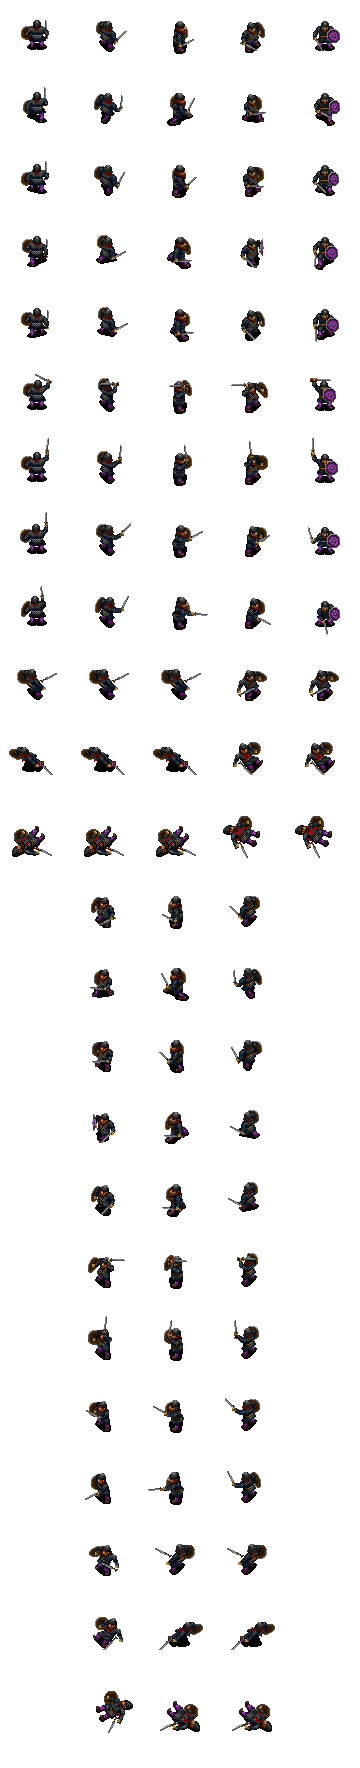
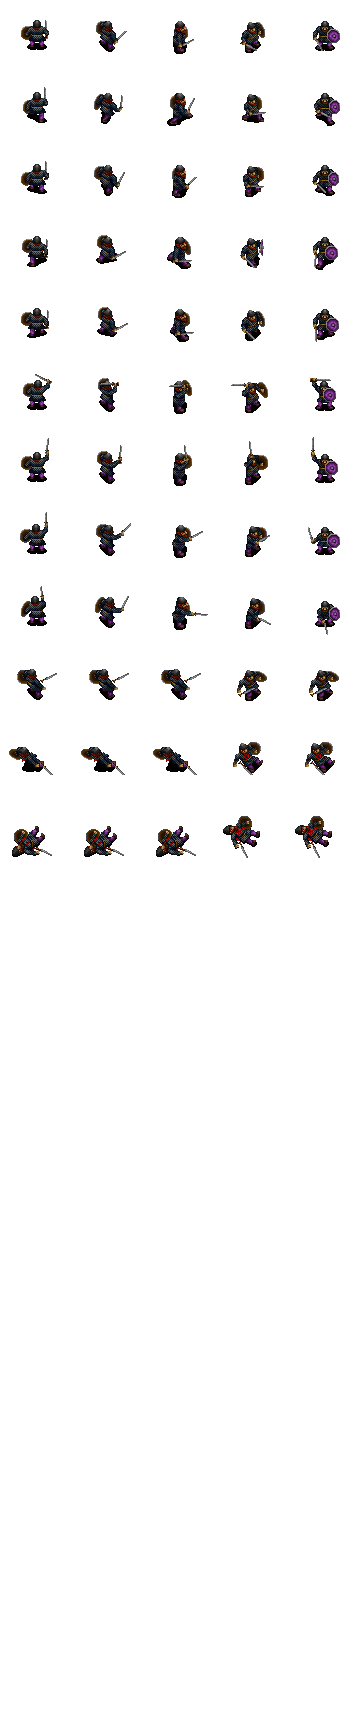
Revert "attacking"
This reverts commit de42b86c028c78cfaebd05b61cb96dce680a8fff.

diff --git a/player.js b/player.js
@@ -52,92 +52,82 @@ var ANIM_DIE_DOWN_RIGHT = 31;
 
 var Player = function() {
 	this.image = document.createElement("img");
-	this.sprite = new Sprite("saxon_swordsman.png");
+	this.sprite = new Sprite("saxon_swordsma.png");
 //UP
 	this.sprite.buildAnimation(5, 24, 73, 73, 0.05,
 			[0]); this.sprite.setAnimationOffset(0,-52,-33);
 	this.sprite.buildAnimation(5, 24, 73, 73, 0.05,
-			[5, 5, 10, 10, 15, 15, 20 ,20]); this.sprite.setAnimationOffset(1,-52,-33);
+			[5, 5, 10, 10, 15, 15, 20 ,20]); this.sprite.setAnimationOffset(0,-52,-33);
 	this.sprite.buildAnimation(5, 24, 73, 73, 0.05,
-			[25, 25 , 30 , 30, 35, 35, 40, 40]); this.sprite.setAnimationOffset(2,-52,-33);		
+			[25, 30, 35, 40]); this.sprite.setAnimationOffset(0,-52,-33);		
 	this.sprite.buildAnimation(5, 24, 73, 73, 0.05,
-			[45, 50, 55]); this.sprite.setAnimationOffset(3,-52,-33);	
+			[45, 50, 55]); this.sprite.setAnimationOffset(0,-52,-33);	
 //UP LEFT		
 	this.sprite.buildAnimation(5, 24, 73, 73, 0.05,
-			[63]); this.sprite.setAnimationOffset(4,-52,-33);
+			[63]); this.sprite.setAnimationOffset(0,-52,-33);
 	this.sprite.buildAnimation(5, 24, 73, 73, 0.05,
-			[68, 73, 78, 83]); this.sprite.setAnimationOffset(5,-52,-33);			
+			[68, 73, 78, 83]); this.sprite.setAnimationOffset(0,-52,-33);			
 	this.sprite.buildAnimation(5, 24, 73, 73, 0.05,
-			[88, 93, 98, 103]); this.sprite.setAnimationOffset(6,-52,-33);			
+			[88, 93, 98, 103]); this.sprite.setAnimationOffset(0,-52,-33);			
 	this.sprite.buildAnimation(5, 24, 73, 73, 0.05,
-			[108, 113, 118]); this.sprite.setAnimationOffset(7,-52,-33);	
+			[108, 113, 118]); this.sprite.setAnimationOffset(0,-52,-33);	
 //UP RIGHT	
 	this.sprite.buildAnimation(5, 24, 73, 73, 0.05,
-			[1]); this.sprite.setAnimationOffset(8,-52,-33);			
+			[1]); this.sprite.setAnimationOffset(0,-52,-33);			
 	this.sprite.buildAnimation(5, 24, 73, 73, 0.05,
-			[6, 11, 16, 21]); this.sprite.setAnimationOffset(9,-52,-33);			
+			[6, 11, 16, 21]); this.sprite.setAnimationOffset(0,-52,-33);			
 	this.sprite.buildAnimation(5, 24, 73, 73, 0.05,
-			[26, 31, 36, 41]); this.sprite.setAnimationOffset(10,-52,-33);			
+			[26, 31, 36, 41]); this.sprite.setAnimationOffset(0,-52,-33);			
 	this.sprite.buildAnimation(5, 24, 73, 73, 0.05,
-			[46, 51, 56]); this.sprite.setAnimationOffset(11,-52,-33);	
+			[46, 51, 56]); this.sprite.setAnimationOffset(0,-52,-33);	
 //LEFT	
 	this.sprite.buildAnimation(5, 24, 73, 73, 0.05,
-			[62]); this.sprite.setAnimationOffset(12,-52,-33);
+			[62]); this.sprite.setAnimationOffset(0,-52,-33);
 	this.sprite.buildAnimation(5, 24, 73, 73, 0.05,
-			[67, 67, 72, 72, 77, 77, 82, 82]); this.sprite.setAnimationOffset(13,-52,-33);
+			[67, 67, 72, 72, 77, 77, 82, 82]); this.sprite.setAnimationOffset(0,-52,-33);
 	this.sprite.buildAnimation(5, 24, 73, 73, 0.05,
-			[87 ,87,92 , 92,97, 97,102, 102]); this.sprite.setAnimationOffset(14,-52,-33);
+			[87, 92, 97, 102]); this.sprite.setAnimationOffset(0,-52,-33);
 	this.sprite.buildAnimation(5, 24, 73, 73, 0.05,
-			[107, 112, 117]); this.sprite.setAnimationOffset(15,-52,-33);	
+			[107, 112, 117]); this.sprite.setAnimationOffset(0,-52,-33);	
 //RIGHT
 	this.sprite.buildAnimation(5, 24, 73, 73, 0.05,
-			[2]); this.sprite.setAnimationOffset(16,-52,-33);
+			[2]); this.sprite.setAnimationOffset(0,-52,-33);
 	this.sprite.buildAnimation(5, 24, 73, 73, 0.05,
-			[7 , 7, 12, 12, 17, 17, 22, 22]); this.sprite.setAnimationOffset(17,-52,-33);			
+			[7 , 7, 12, 12, 17, 17, 22, 22]); this.sprite.setAnimationOffset(0,-52,-33);			
 	this.sprite.buildAnimation(5, 24, 73, 73, 0.05,
-			[27, 27, 32, 32,37, 37,42, 42]); this.sprite.setAnimationOffset(18,-52,-33);			
+			[27, 32, 37, 42]); this.sprite.setAnimationOffset(0,-52,-33);			
 	this.sprite.buildAnimation(5, 24, 73, 73, 0.05,
-			[47, 52, 57]); this.sprite.setAnimationOffset(19,-52,-33);
+			[47, 52, 57]); this.sprite.setAnimationOffset(0,-52,-33);
 //DOWN
 	this.sprite.buildAnimation(5, 24, 73, 73, 0.05,
-			[4]); this.sprite.setAnimationOffset(20,-52,-33);
+			[4]); this.sprite.setAnimationOffset(0,-52,-33);
 	this.sprite.buildAnimation(5, 24, 73, 73, 0.05,
-			[9, 9, 14, 14, 19, 19, 24,24]); this.sprite.setAnimationOffset(21,-52,-33);
+			[9, 9, 14, 14, 19, 19, 24,24]); this.sprite.setAnimationOffset(0,-52,-33);
 	this.sprite.buildAnimation(5, 24, 73, 73, 0.05,
-			[29, 29 , 34, 34, 39, 39, 44, 44]); this.sprite.setAnimationOffset(22,-52,-33);
+			[29, 29 , 34, 34, 39, 39, 44, 44]); this.sprite.setAnimationOffset(0,-52,-33);
 	this.sprite.buildAnimation(5, 24, 73, 73, 0.05,
-			[49, 54, 59]); this.sprite.setAnimationOffset(23,-52,-33);
+			[49, 54, 59]); this.sprite.setAnimationOffset(0,-52,-33);
 //DOWN LEFT
 	this.sprite.buildAnimation(5, 24, 73, 73, 0.05,
-			[61]); this.sprite.setAnimationOffset(24,-52,-33);
+			[61]); this.sprite.setAnimationOffset(0,-52,-33);
 	this.sprite.buildAnimation(5, 24, 73, 73, 0.05,
-			[66, 71, 76, 81]); this.sprite.setAnimationOffset(25,-52,-33);			
+			[66, 71, 76, 81]); this.sprite.setAnimationOffset(0,-52,-33);			
 	this.sprite.buildAnimation(5, 24, 73, 73,0.05,
-			[86, 91, 96, 101]); this.sprite.setAnimationOffset(26,-52,-33);
+			[86, 91, 96, 101]); this.sprite.setAnimationOffset(0,-52,-33);
 	this.sprite.buildAnimation(5, 24, 73, 73, 0.05,
-			[106, 111, 116]); this.sprite.setAnimationOffset(27,-52,-33);
+			[106, 111, 116]); this.sprite.setAnimationOffset(0,-52,-33);
 			
 //DOWN RIGHT
 	this.sprite.buildAnimation(5, 24, 73, 73, 0.05,
-			[3]); this.sprite.setAnimationOffset(28,-52,-33);
+			[3]); this.sprite.setAnimationOffset(0,-52,-33);
 	this.sprite.buildAnimation(5, 24, 73, 73, 0.05,
-			[8, 13, 18, 23]); this.sprite.setAnimationOffset(29,-52,-33);
+			[8, 13, 18, 23]); this.sprite.setAnimationOffset(0,-52,-33);
 	this.sprite.buildAnimation(5, 24, 73, 73, 0.05,
-			[28, 33, 38, 43]); this.sprite.setAnimationOffset(30,-52,-33);
+			[28, 33, 38, 43]); this.sprite.setAnimationOffset(0,-52,-33);
 	this.sprite.buildAnimation(5, 24, 73, 73, 0.05,
-			[48, 53, 58]); this.sprite.setAnimationOffset(31,-52,-33);
+			[48, 53, 58]); this.sprite.setAnimationOffset(0,-52,-33);
 
 
-			
-//UP = 0;
-// UP_LEFT = 1;
-// UP_RIGHT = 2;
-// LEFT = 3;
-// RIGHT = 4;
-// DOWN = 5;
-// DOWN_LEFT = 6;
-// DOWN_RIGHT = 7;
-			
 	this.direction = UP;
 	
 	this.position = new Vector2();
@@ -152,8 +142,6 @@ var Player = function() {
 	
 	this.velocity = new Vector2();
 	
-	this.attacking = false;
-	
 	SetupImageEvents(this, this.image);
 };
 
@@ -161,99 +149,57 @@ Player.prototype.update = function(deltaTime)
 {
 	this.sprite.update(deltaTime);
 	
-	if(keyboard.isKeyDown(keyboard.KEY_SPACE) == false)
-	{
-		
+	var up = false;
+	var down = false;
+	var up_left = false;
+	var down_left = false;
+	var down_right = false;
+	var up_right = false;
+	var left = false;
+	var right = false;
 	
 	if(keyboard.isKeyDown(keyboard.KEY_UP) == true)
 	{
-		
-		this.direction = UP;
+		up = true;
+		this.direction = UP = true;
 		this.position.y -= 2;
 		if(this.sprite.currentAnimation != ANIM_WALK_UP)
 			this.sprite.setAnimation(ANIM_WALK_UP);
 	}
-	else if(keyboard.isKeyDown(keyboard.KEY_UP ) == true && keyboard.isKeyDown(keyboard.KEY_RIGHT) == true)
+	if(keyboard.isKeyDown(keyboard.KEY_DOWN) == true)
 	{
-		
-		this.direction = UP_RIGHT;
-		this.position.y -= 2;
-		if(this.sprite.currentAnimation != ANIM_WALK_UP_RIGHT)
-			this.sprite.setAnimation(ANIM_WALK_UP_RIGHT);
-	}
-	else if(keyboard.isKeyDown(keyboard.KEY_DOWN) == true)
-	{
-	
-		this.direction = DOWN;
+		down = true;
+		this.direction = DOWN = true;
 		this.position.y += 2;
 			if(this.sprite.currentAnimation != ANIM_WALK_DOWN)
 			this.sprite.setAnimation(ANIM_WALK_DOWN);
 	}
-	else if(keyboard.isKeyDown(keyboard.KEY_LEFT) == true)
+	if(keyboard.isKeyDown(keyboard.KEY_LEFT) == true)
 	{
-	
+		left = true;
 		this.direction = LEFT;
 		this.position.x -= 2;
 			if(this.sprite.currentAnimation != ANIM_WALK_LEFT)
 			this.sprite.setAnimation(ANIM_WALK_LEFT);
 	}
-	else if(keyboard.isKeyDown(keyboard.KEY_RIGHT) == true)
+	if(keyboard.isKeyDown(keyboard.KEY_RIGHT) == true)
 	{
-
+		right = true;
 		this.direction = RIGHT;
 		this.position.x += 2;
 			if(this.sprite.currentAnimation != ANIM_WALK_RIGHT)
 			this.sprite.setAnimation(ANIM_WALK_RIGHT);
 	}
-	else if(this.attacking == false) {
-		if(this.direction == LEFT)
-		{
-			if(this.sprite.currentAnimation != ANIM_IDLE_LEFT)
-			this.sprite.setAnimation(ANIM_IDLE_LEFT);
-		}
-		else if(this.direction == RIGHT)
-		{
-			if(this.sprite.currentAnimation != ANIM_IDLE_RIGHT)
-			this.sprite.setAnimation(ANIM_IDLE_RIGHT);
-		}
-		else if(this.direction == UP)
-		{
-			if(this.sprite.currentAnimation != ANIM_IDLE_UP)
-			this.sprite.setAnimation(ANIM_IDLE_UP);
-		}
-		else if(this.direction == DOWN)
-		{
-			if(this.sprite.currentAnimation != ANIM_IDLE_DOWN)
-			this.sprite.setAnimation(ANIM_IDLE_DOWN);
-		}
-	}
-	}
-	if(keyboard.isKeyDown(keyboard.KEY_SPACE) == true)
+	if(this.direction = UP = true && keyboard.isKeyDown(keyboard.KEY_SPACE) == true)
 	{
-		this.attacking = true
-	
-		if(this.direction == UP)
-		{
-			if(this.sprite.currentAnimation != ANIM_ATTACK_UP)
+		if(this.sprite.currentAnimation != ANIM_ATTACK_UP)
 			this.sprite.setAnimation(ANIM_ATTACK_UP);
-		}
-		else if(this.direction == DOWN)
-		{
-			if(this.sprite.currentAnimation != ANIM_ATTACK_DOWN)
-			this.sprite.setAnimation(ANIM_ATTACK_DOWN);
-		}
-		else if(this.direction == RIGHT)
-		{
-			if(this.sprite.currentAnimation != ANIM_ATTACK_RIGHT)
-			this.sprite.setAnimation(ANIM_ATTACK_RIGHT);
-		}
-		else if(this.direction == LEFT)
-		{
-			if(this.sprite.currentAnimation != ANIM_ATTACK_LEFT)
-			this.sprite.setAnimation(ANIM_ATTACK_LEFT);
-		}
 	}
-	else {this.attacking = false}
+	else(this.direction = DOWN = true && keyboard.isKeyDown(keyboard.KEY_SPACE) == true)
+	{
+		if(this.sprite.currentAnimation != ANIM_ATTACK_DOWN)
+			this.sprite.setAnimation(ANIM_ATTACK_DOWN);
+	}
 }
 
 Player.prototype.draw = function()
